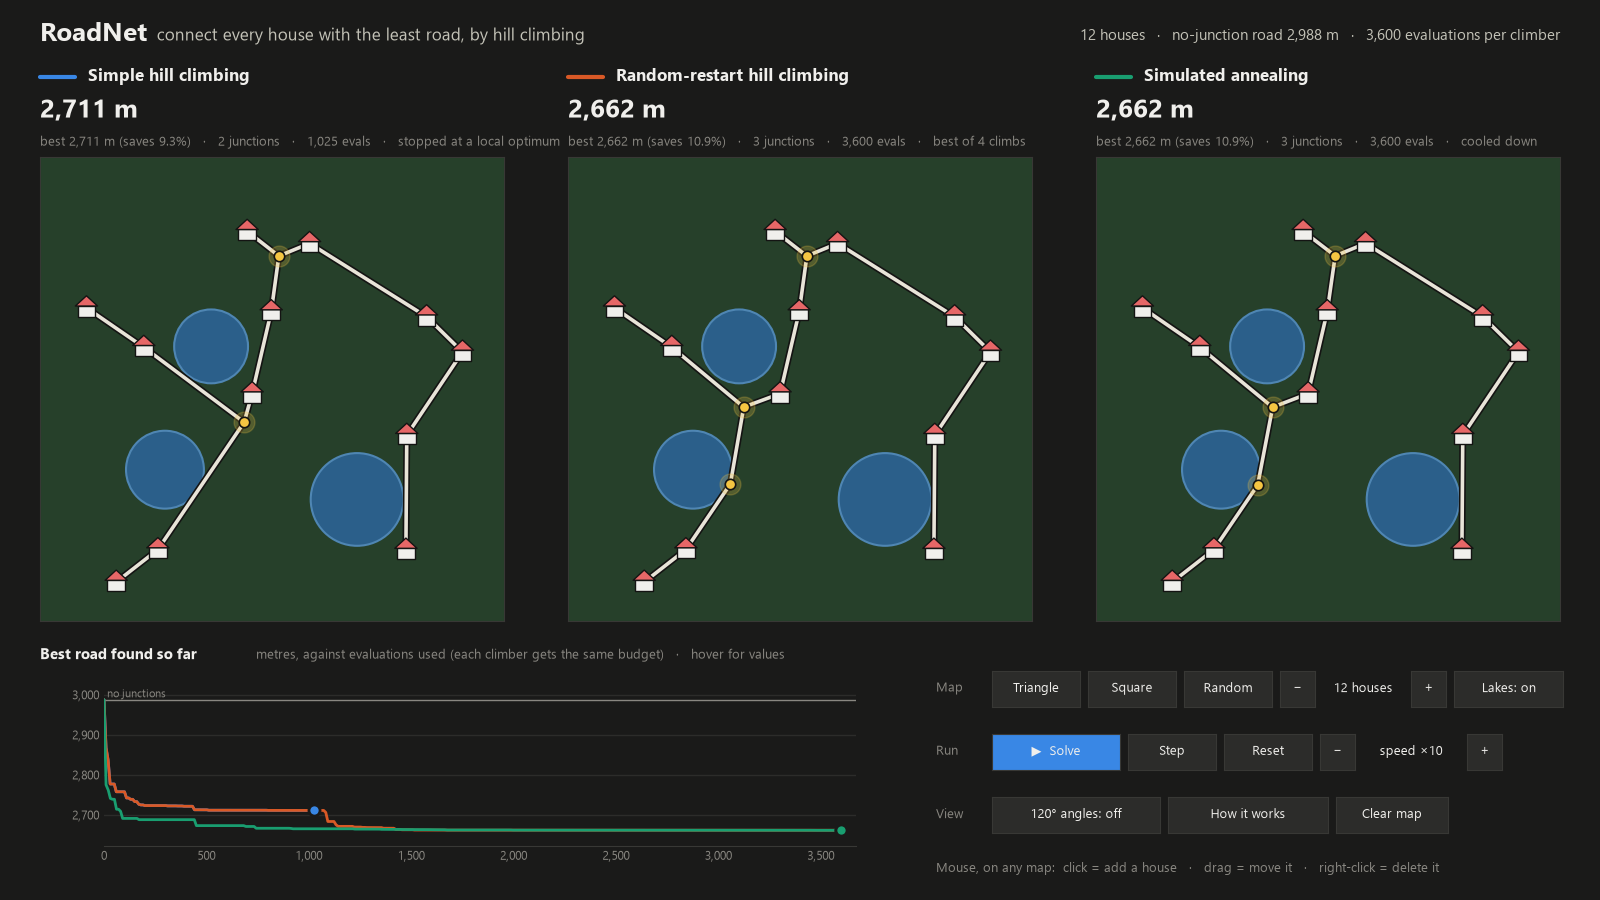
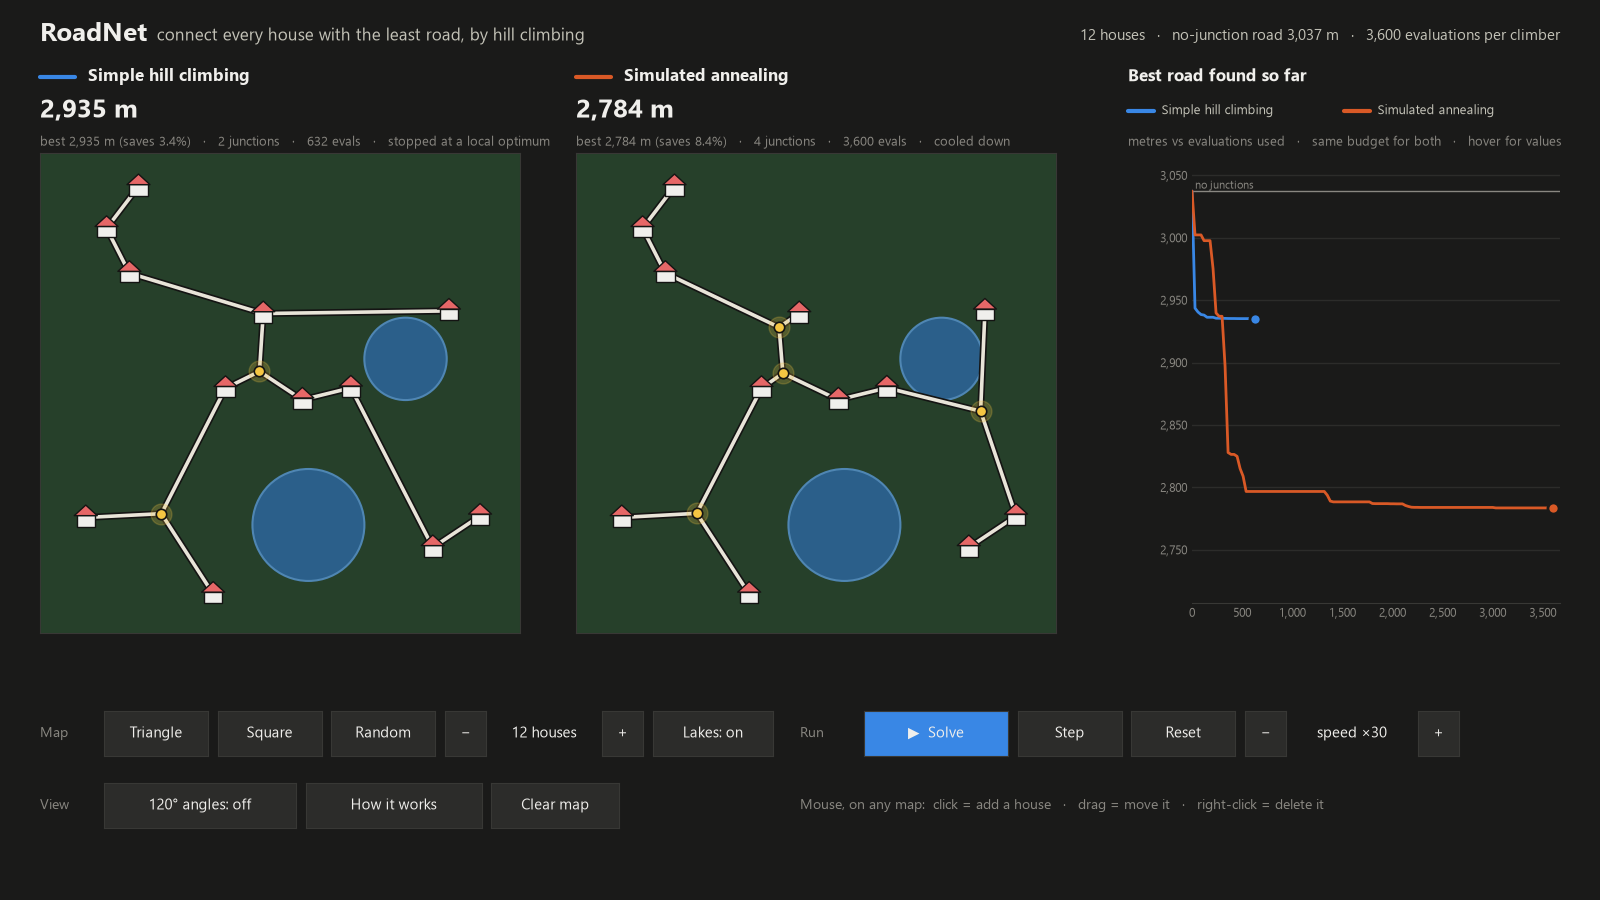
README and pictures for the two-climber race: simple hill climbing vs simulated annealing

diff --git a/README.md b/README.md
@@ -1,6 +1,6 @@
 # RoadNet: connect every house with the least road, by hill climbing
 
-![Three climbers race on the same 12 houses](figs/race.gif)
+![Simple hill climbing and simulated annealing race on the same 12 houses](figs/race.gif)
 
 Some houses are scattered over a 1.2 km × 1.2 km area, and all of them must be connected by road. Every metre of road
 costs money, and a metre built across a lake costs **3×**. Roads may meet at **junctions**, extra points that are not
@@ -8,8 +8,8 @@ houses. Junctions can shorten the network a lot: four houses on the corners of a
 junctions, 2,828 m with one junction in the middle (an X), and only **2,732 m** with two junctions (an H).
 
 Where should the junctions go? This is the **Euclidean Steiner tree problem**, which is NP-hard, so instead of trying
-every possibility RoadNet **searches** for good junction positions with hill climbing. Three climbers race side by
-side on the same map, with the same budget.
+every possibility RoadNet **searches** for good junction positions. Two methods race side by side on the same map,
+with the same budget: **simple hill climbing** and **simulated annealing**.
 
 ## The search problem
 
@@ -24,16 +24,14 @@ side on the same map, with the same budget.
 Why the spanning tree? Once the junction positions are fixed, the cheapest way to join a set of points with straight
 roads is their minimum spanning tree. The search therefore only has to decide where the junctions go.
 
-## The three climbers
+## The two climbers
 
-All three start from the baseline and get the same number of cost evaluations (300 × N), so the race is fair.
+Both start from the baseline and get the same number of cost evaluations (300 × N), so the race is fair.
 
 1. **Simple hill climbing.** Try a random move and keep it only if the road gets shorter. After 60 failed tries in a
    row the nudge size halves (60 m → 30 m → … ). When it drops below 1 m, no small change helps any more: the climber
    is at a **local optimum** and stops, even if budget is left.
-2. **Random-restart hill climbing.** The same climber, but each time it gets stuck it starts again from a random set of
-   junctions (each in the middle of three random houses) and keeps the best network it has ever found.
-3. **Simulated annealing.** The same moves, but a longer road is also accepted, with probability e^(−Δ/T). The
+2. **Simulated annealing.** The same moves, but a longer road is also accepted, with probability e^(−Δ/T). The
    temperature T starts at 5% of the average road per house and cools geometrically to 1/1000 of that, and the nudge
    size shrinks with √T. Early on it can climb out of a local optimum; by the end it behaves like plain hill climbing.
    It keeps the best network it has seen.
@@ -42,8 +40,8 @@ All three start from the baseline and get the same number of cost evaluations (3
 
 * **Triangle.** For three houses on an equilateral triangle, the best network is known exactly: one junction in the
   centre, with three roads meeting at 120°, for √3 × side = 1,732 m. That is 13.4% less than the 2,000 m baseline.
-  All three climbers find it.
-* **Square.** All three climbers find the H (2,732 m), not the X (2,828 m), and every junction angle is within 1° of 120°.
+  Both climbers find it.
+* **Square.** Both climbers find the H (2,732 m), not the X (2,828 m), and every junction angle is within 1° of 120°.
 * **The 120° rule.** In a shortest network on flat land, roads always meet at junctions at 120°. Press
   "120° angles" in the app to see the junctions settle there.
 * **Upper bound.** On flat land, junctions save at most about 13.4% over the no-junction network (the Steiner ratio
@@ -51,42 +49,42 @@ All three start from the baseline and get the same number of cost evaluations (3
 
 ![The H on the square: every angle is 120°](figs/square.png)
 
-`selftest.py` checks all of this (18 checks), plus:
+`selftest.py` checks all of this (14 checks), plus:
 - the lake cost of a road (through the middle of a lake, beside it, entirely inside it);
 - the spanning tree on a hand-worked example;
-- every climber is never worse than the baseline, on 20 random maps;
+- both climbers are never worse than the baseline, on 20 random maps;
 - a fixed seed always gives the same result.
 
 `tests_ui.py` clicks every button, presses every key, adds, drags and deletes houses, runs a full race and measures the
-frame time (26 checks).
+frame time (27 checks).
 
 ## Results
 
 Measured with the app's settings (same climber seed as the app). Each row can be reproduced with the command shown. In
 each cell: road length · % saved vs no junctions · junctions · evaluations used.
 
-| Map (command) | No junctions | Simple hill climbing | Random restart | Simulated annealing |
-|---|---|---|---|---|
-| Triangle (`--preset triangle`) | 2,000 m | 1,732 m · 13.4% · 1 · 362 | 1,732 m · 13.4% · 1 · 900 | 1,732 m · 13.4% · 1 · 900 |
-| Square (`--preset square`) | 3,000 m | 2,732 m · 8.9% · 2 · 840 | 2,732 m · 8.9% · 2 · 1,200 | 2,732 m · 8.9% · 2 · 1,200 |
-| Square + lakes (`--preset square --lakes --seed 0`) | 3,000 m | 3,000 m · 0% · 0 · 533 | **2,879 m · 4.0%** · 1 · 1,200 | 3,000 m · 0% · 0 · 1,200 |
-| 12 houses (default map, seed 9) | 2,991 m | 2,868 m · 4.1% · 2 · 630 | **2,835 m · 5.2%** · 4 · 3,600 | 2,858 m · 4.4% · 3 · 3,600 |
-| 12 houses + lakes (`--seed 2 --lakes`) | 2,988 m | 2,711 m · 9.3% · 2 · 1,025 | **2,662 m · 10.9%** · 3 · 3,600 | **2,662 m · 10.9%** · 3 · 3,600 |
+| Map (command) | No junctions | Simple hill climbing | Simulated annealing |
+|---|---|---|---|
+| Triangle (`--preset triangle`) | 2,000 m | 1,732 m · 13.4% · 1 · 362 | 1,732 m · 13.4% · 1 · 900 |
+| Square (`--preset square`) | 3,000 m | 2,732 m · 8.9% · 2 · 840 | 2,732 m · 8.9% · 2 · 1,200 |
+| 12 houses (default map, seed 17) | 2,920 m | 2,890 m · 1.0% · 1 · 529 | **2,832 m · 3.0%** · 4 · 3,600 |
+| 12 houses + lakes (`--seed 11 --lakes`) | 3,037 m | 2,935 m · 3.4% · 2 · 632 | **2,784 m · 8.4%** · 4 · 3,600 |
+| Square + lakes (`--preset square --lakes --seed 0`) | 3,000 m | 3,000 m · 0% · 0 · 533 | 3,000 m · 0% · 0 · 1,200 |
 
 What this shows:
 
-* **Simple hill climbing stops early at a local optimum.** On the default map it stops after 630 of its 3,600
-  evaluations, and the other two climbers use the rest of the budget to do better.
-* **The square with lakes is a clear local optimum.** The lakes sit where the junctions would go. The cheapest
-  junction the *add* move can place makes the road 624 m longer, so simple hill climbing refuses it. At annealing's
-  starting temperature (T = 37.5) that step is accepted with probability e^(−624/37.5) ≈ 10⁻⁷, so annealing stays
-  stuck too. Only random restart, which starts some climbs with junctions already placed, reaches the X that threads
-  between the lakes. With lakes, roads also bend
-  around them using junctions that join only two roads.
-* On many random maps all three climbers find the same network (for example `--seed 3` or `--seed 4`). The local
-  optima matter on some maps, not on every map.
+* **Simple hill climbing stops early at a local optimum.** On the default map it stops after 529 of its 3,600
+  evaluations, at 1.0% saved. Annealing accepts some longer roads on the way, keeps going, and saves 3.0%.
+* **With lakes the gap is often larger**, here 3.4% vs 8.4%. A good route around a lake usually needs junctions that
+  first make the road longer, which simple hill climbing never accepts.
+* **Annealing is not magic.** On the square with lakes, the lakes sit where the junctions would go. The cheapest
+  junction the *add* move can place makes the road 624 m longer. Simple hill climbing refuses that step, and at
+  annealing's starting temperature (T = 37.5) it is accepted with probability e^(−624/37.5) ≈ 10⁻⁷. So both stay at
+  the no-junction network, although a single junction threading between the lakes would save about 4%.
+* On many random maps both climbers find the same network (for example `--seed 3` or `--seed 4`). The local optima
+  matter on some maps, not on every map.
 
-![Roads bend around lakes](figs/lakes12.png)
+![With lakes: annealing rebuilds the network into one 151 m shorter, which simple hill climbing cannot reach](figs/lakes12.png)
 
 ## Run it
 
@@ -101,7 +99,7 @@ py -3.11 -m venv .venv
 | **Map:** Triangle · Square · Random · − / + houses · Lakes | load a preset, a new random map, change the number of houses (3–20), add or remove lakes |
 | **Run:** Solve · Step · Reset · − / + speed | start or pause the race, advance one evaluation, start the race again, evaluations per frame |
 | **View:** 120° angles · How it works · Clear map | label the junction angles, open the explanation panel, remove all houses |
-| **Mouse** on any map | click to add a house, drag to move it, right-click to delete it |
+| **Mouse** on either map | click to add a house, drag to move it, right-click to delete it |
 | **Keys** | space solve/pause · → step · r reset · n new random map · l lakes · a angles · i how it works · + / − speed |
 | **Chart** | hover to read each climber's best road at that point |
 
@@ -109,8 +107,8 @@ Command line: `--preset triangle|square|random`, `--houses N`, `--seed S`, `--la
 `--save picture.png` or `--save race.gif` (runs without a window).
 
 ```
-.venv\Scripts\python selftest.py     # 18 checks of the maths and the climbers
-.venv\Scripts\python tests_ui.py     # 26 checks of the app
+.venv\Scripts\python selftest.py     # 14 checks of the maths and the climbers
+.venv\Scripts\python tests_ui.py     # 27 checks of the app
 ```
 
 ## Files
@@ -119,7 +117,7 @@ Command line: `--preset triangle|square|random`, `--houses N`, `--seed S`, `--la
 |---|---|
 | `roadnet/world.py` | the map: houses, lakes, presets, seeded random maps |
 | `roadnet/network.py` | road cost of a straight segment (lake crossings solved exactly), minimum spanning tree, baseline, junction angles |
-| `roadnet/climb.py` | the moves and the three climbers (each a generator, so the app can animate it step by step) |
+| `roadnet/climb.py` | the moves and the two climbers (each a generator, so the app can animate it step by step) |
 | `roadnet/draw.py` | drawing a map: land, lakes, houses, roads, junctions, angle labels |
-| `demo.py` | the app |
+| `demo.py` | the app (only the moving parts are redrawn each frame, so it animates smoothly) |
 | `selftest.py`, `tests_ui.py` | the checks |
